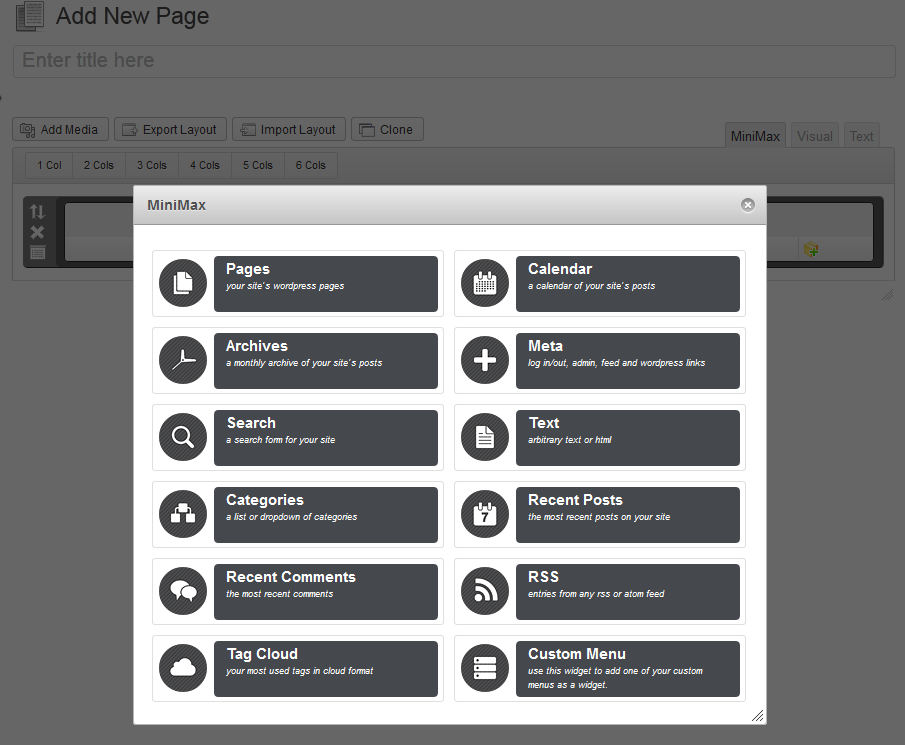
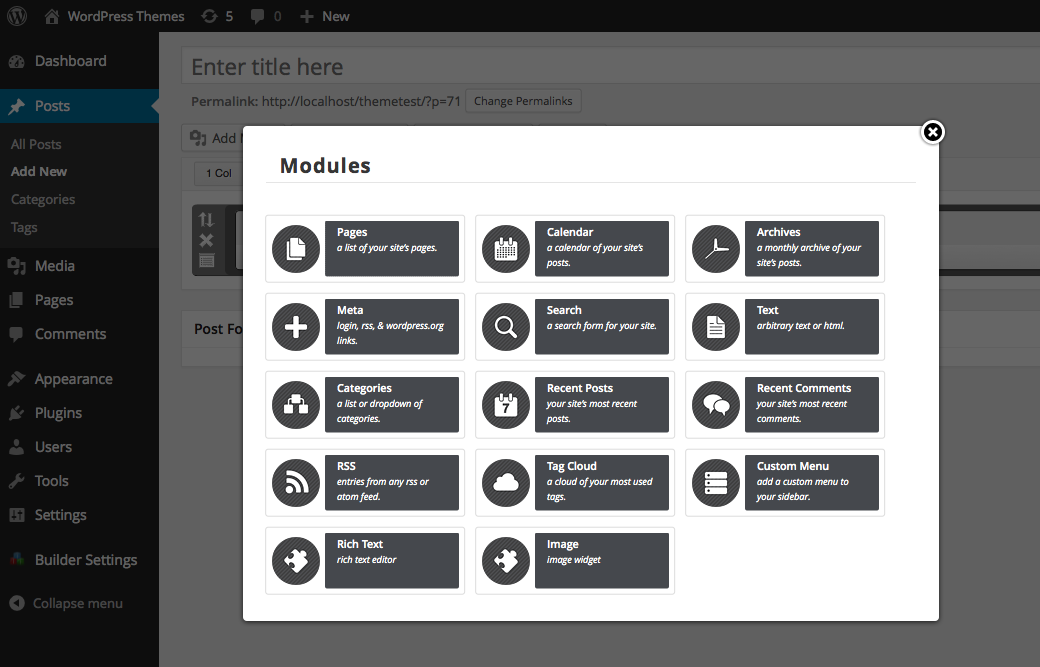
regular maintenance and compatibility release for wp 3.8
git-svn-id: https://plugins.svn.wordpress.org/page-layout-builder/trunk@828375 b8457f37-d9ea-0310-8a92-e5e31aec5664

diff --git a/css/admin-style.css b/css/admin-style.css
@@ -207,29 +207,35 @@ height: 60px;
 
 #modules > li{
     width: 200px;
-    height: 55px;
+    height: 68px;
     text-align: center;
     float: left;
     margin: 5px !important;
     padding: 5px;
+    border: 1px solid #dddddd;
+    border-radius: 3px;
+    -webkit-border-radius: 3px;
+    -moz-border-radius: 3px;
 }
 
 #modules > li h3{
     font-size:8pt;
     margin-top: 0px !important;
     text-transform: capitalize;
+    color: #ffffff;
 }
 #modules > li a{
     display: block;
-    width: 120px;
+    width: 110px;
     float: right;
     font-size:8pt;
     overflow: hidden;
     text-transform: lowercase;     
-    -webkit-border-radius: 4px;
-    -moz-border-radius: 4px;
-    border-radius: 4px;
+    -webkit-border-radius: 2px;
+    -moz-border-radius: 2px;
+    border-radius: 2px;
    background: #45484d;
+   color: #ffffff;
  
 padding: 4px 12px;
 line-height: normal;
@@ -239,6 +245,10 @@ color: #ffffff !important;
 text-decoration: none;
 margin: 0px;
     
+}
+
+#modules > li:hover a{
+    background: #0074A2;
 }
 
 .module > li nobr.ctl{

diff --git a/page-layout-builder.php b/page-layout-builder.php
@@ -4,7 +4,7 @@ Plugin Name: Page Layout Builder
 Description: Drag and Drop Page Builder / Layout Builder / Content Builder for WordPress
 Plugin URI: http://wpeden.com
 Author: Shaon
-Version: 1.3.2
+Version: 1.3.3
 Author URI: http://wpeden.com
 */
  
